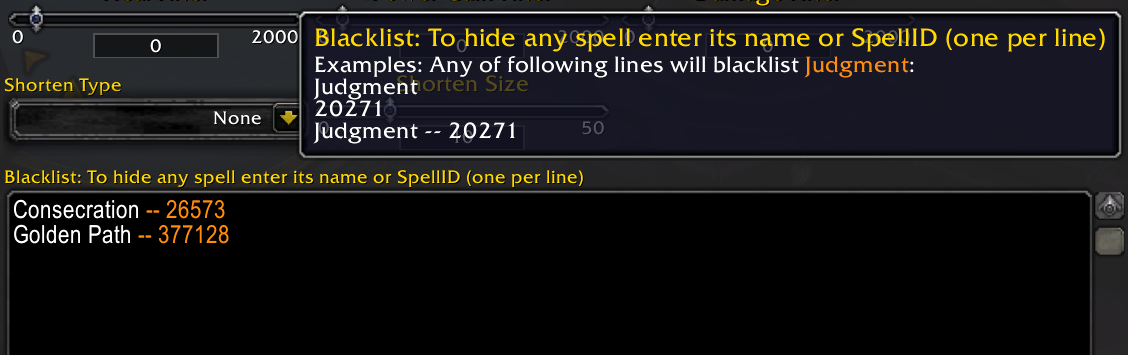
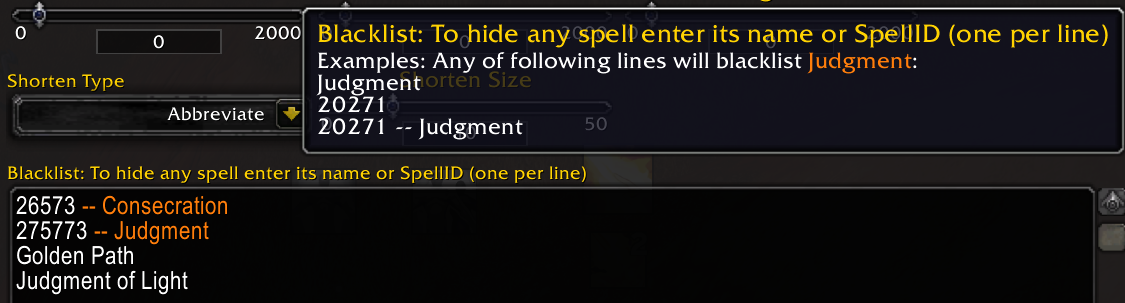
Fix: Blacklist not working for some spells
- Some spells have multiple IDs, thus blacklisting only based on ID
  will not work for some spells.  We now store all blacklisted
  spells based on their names unless the user explicitly
  enters a spell ID.
- Add a warning message to users if they are using the old format
  of blacklisted spells in their DB.
- Fix a typo in color-formatting string of the tooltips.
- Update localizaions to show how the blacklisted spells should be entered.
- Update screenshot for Blacklist window to reflect above changes.

Changed region(s): [[0.0, 0.0, 1.0, 1.0]]

diff --git a/TODO.md b/TODO.md
@@ -1,9 +1,8 @@
 ### TODO
 
-- Implement the nenw way of storing Blacklist
 - Test the above
 - Check if we can change the tooltip font
 - Test if spell reflect works
 - Test what to happens to EXP message when leveling
-- Use BigWigs packager for wago.io too
-- Automatically update mod version in TOC when when we do `git tag`. We can use `@project-version@` through BigWigs packager but this requires us to use BigWigs packager for wago.io too.
+- Look into coloring the tooltip according to EavesDrop setting and not based on Blizzard's settings
+- Add new spell schools (such as Cosmic) to color options, and start tracking them in EavesDropStats.lua
